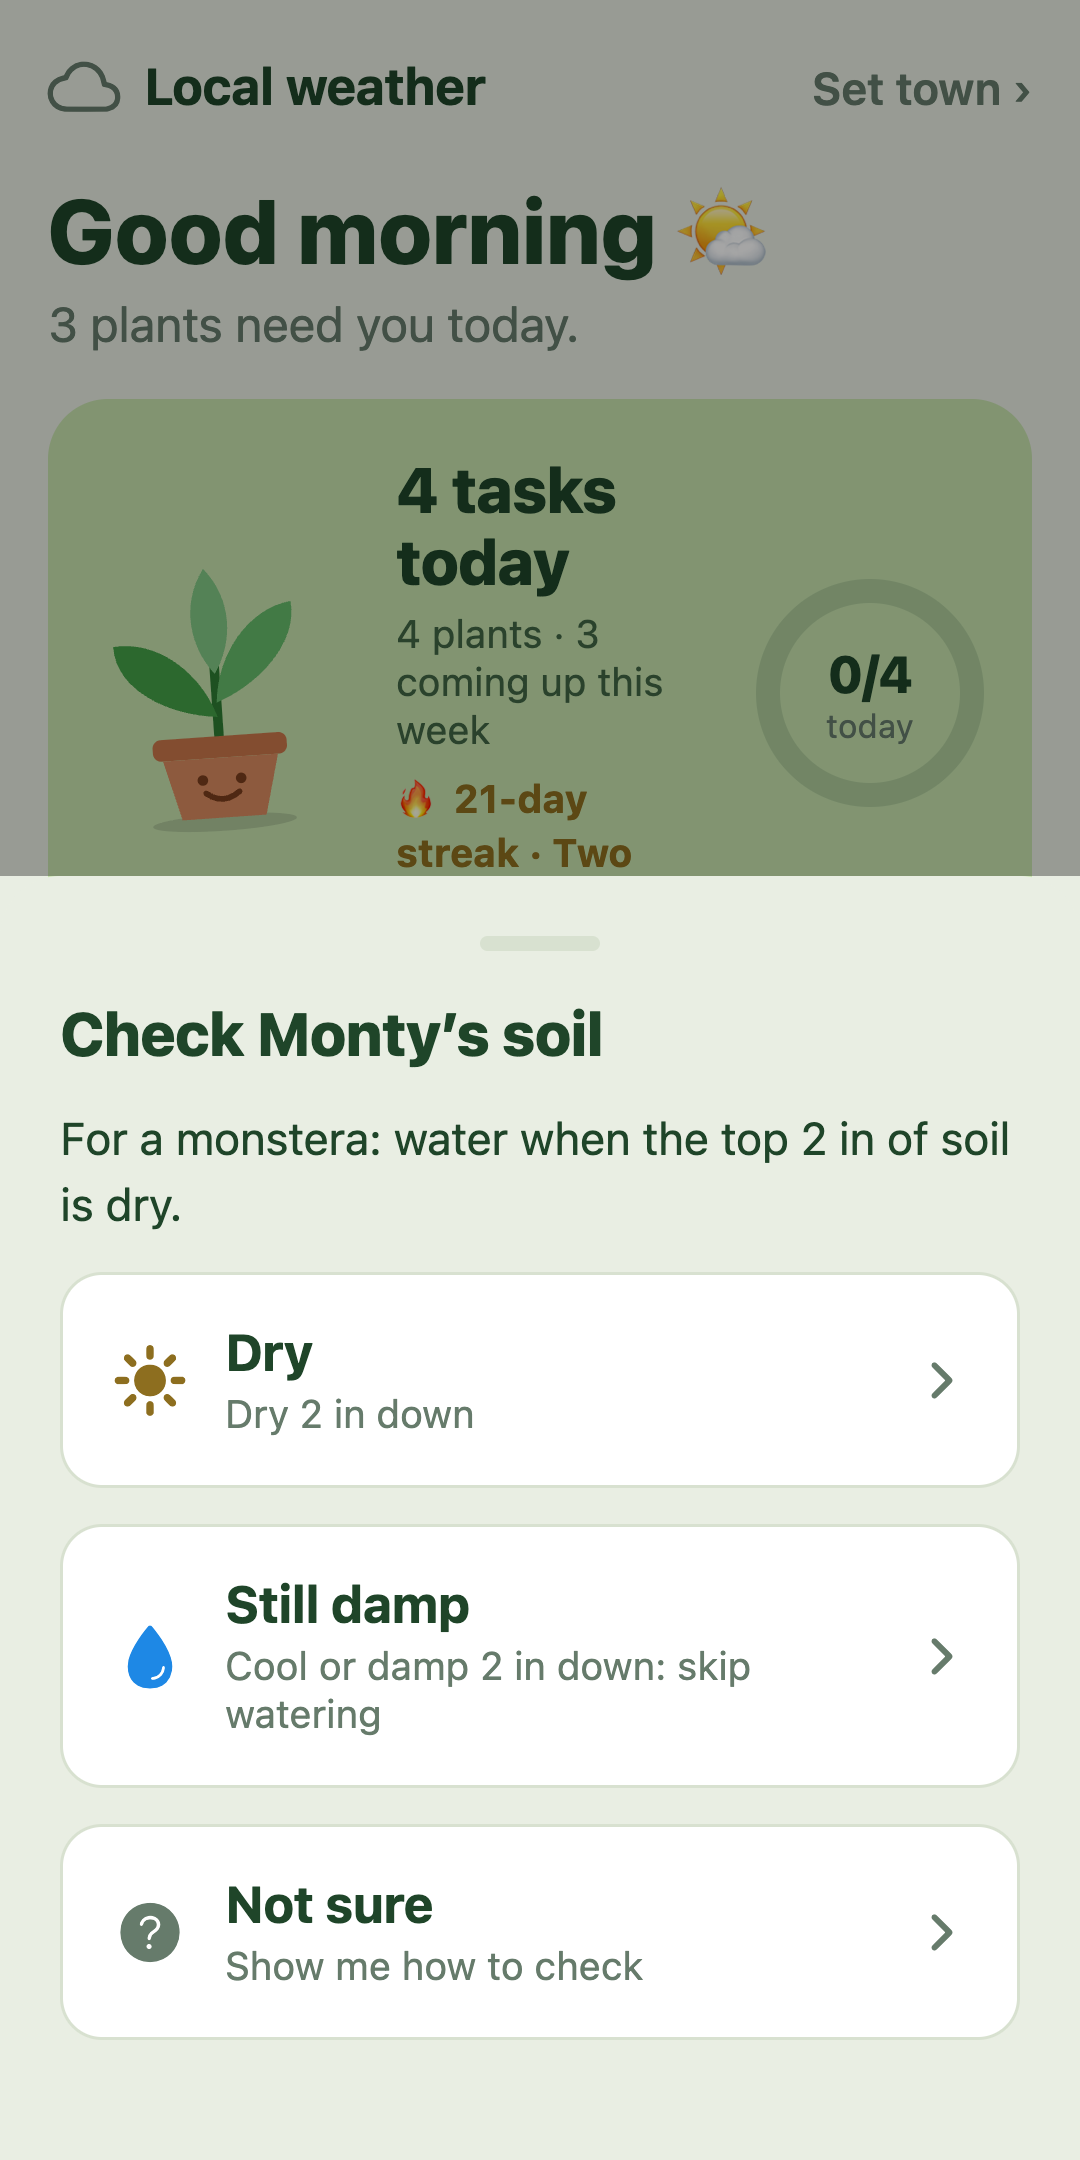
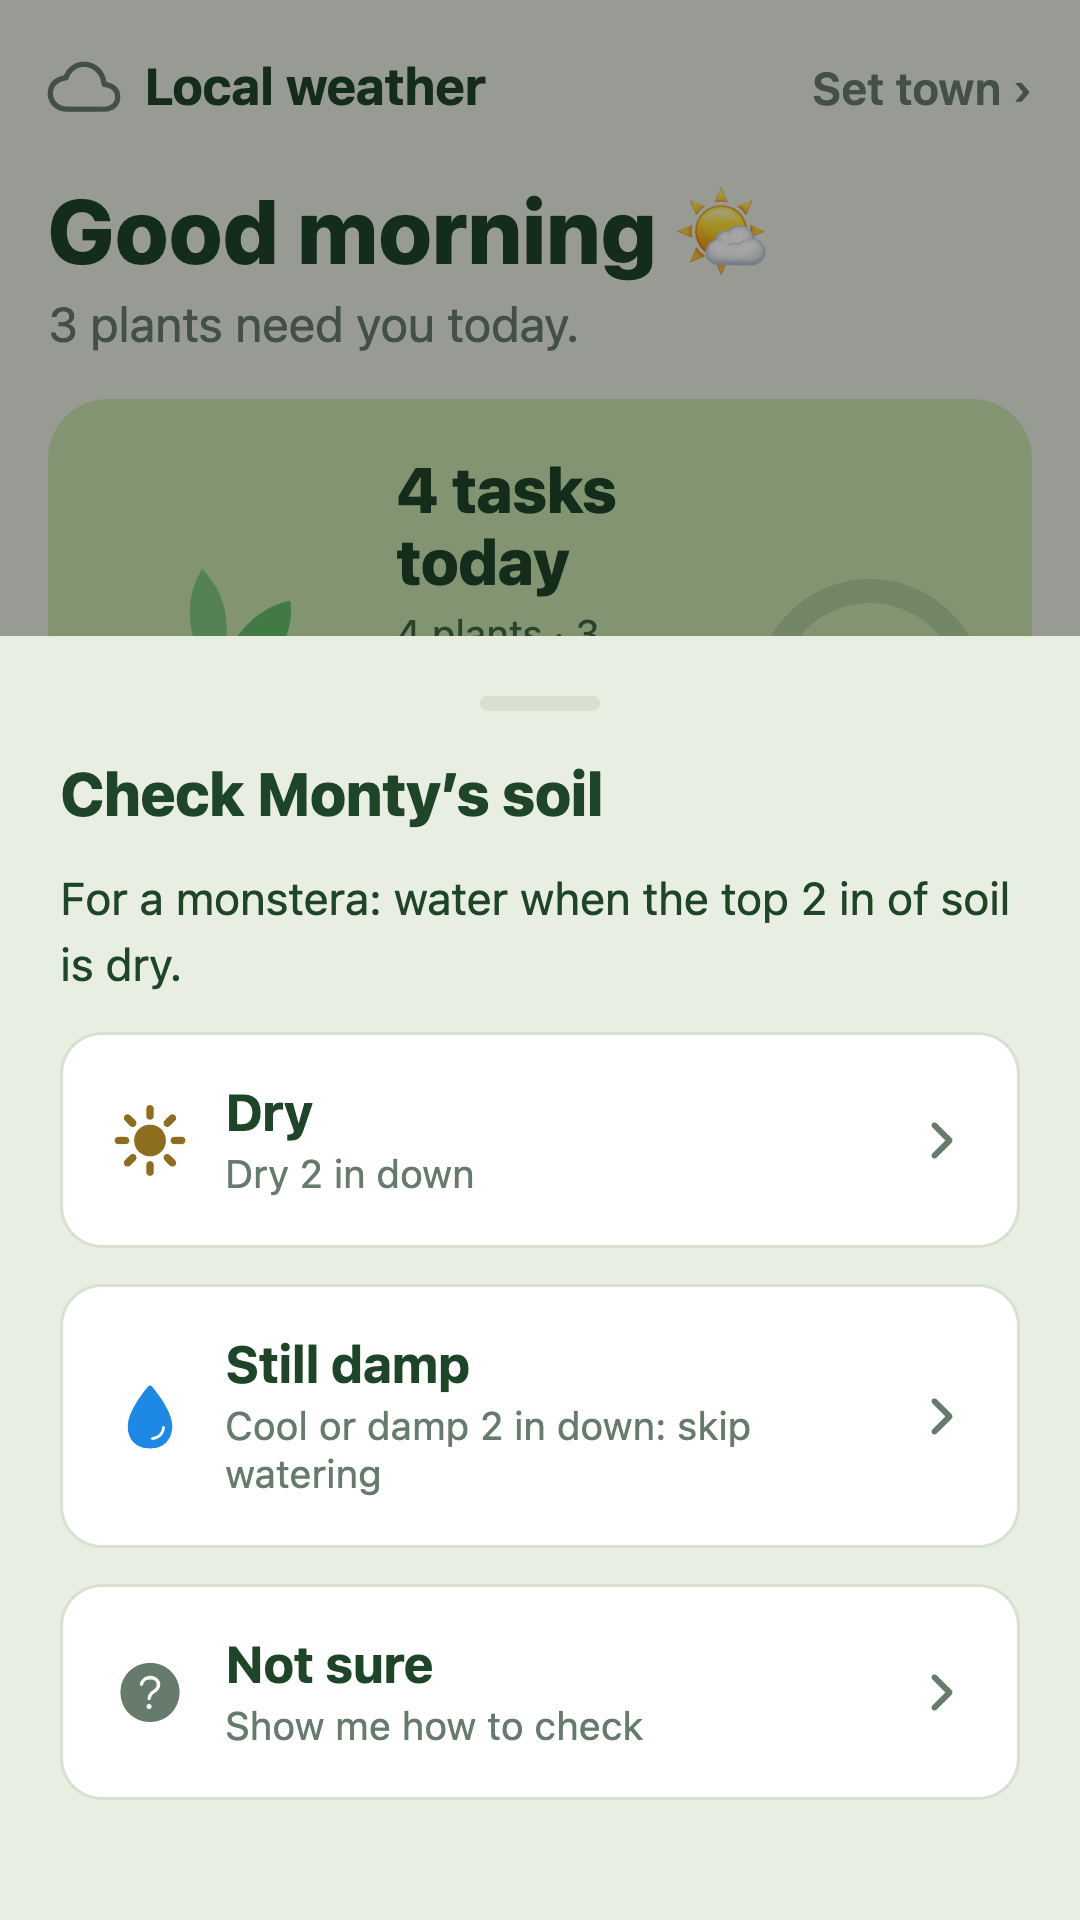
Google Play: phone screenshots at 1080x1920 (Play requires exactly 9:16)

diff --git a/store/play/listing.md b/store/play/listing.md
@@ -6,7 +6,7 @@ Everything for the Play Console, in the order you'll meet it. Images are in this
 | --- | --- |
 | `icon-512.png` (512 × 512) | Main store listing → App icon |
 | `feature-graphic.jpg` (1024 × 500) | Main store listing → Feature graphic |
-| `screenshots/1-today.png` … `6-doctor.png` (1080 × 2160) | Main store listing → Phone screenshots, in that order |
+| `screenshots/1-today.png` … `6-doctor.png` (1080 × 1920) | Main store listing → Phone screenshots, in that order |
 
 Regenerate the screenshots with `node docs/img/shoot.mjs play`.
 
